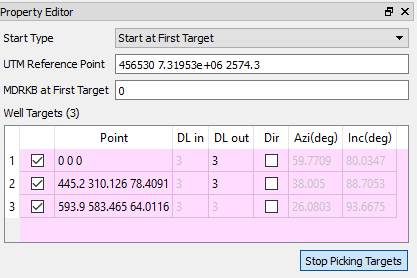
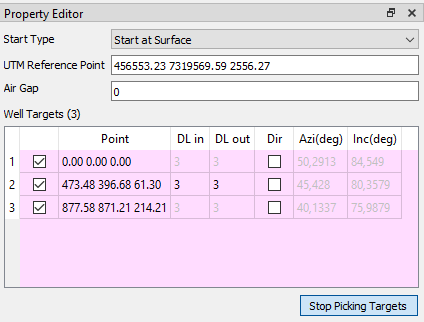
Improved well targets, c.f. issue #5530

Changed region(s): [[0.0, 0.0, 1.0, 1.0], [0.0, 0.5468, 0.0312, 0.6043], [0.0, 0.7194, 0.0312, 0.7482]]

diff --git a/content/Wells-and-Completions/CreateNewWellPaths.md b/content/Wells-and-Completions/CreateNewWellPaths.md
@@ -19,17 +19,18 @@ To create a well path:
 
 ![]({{< relref "" >}}images/3d-main-window/WellTargetsPropertyEditor.png)
 
-Well targets property editor fields
+Well targets property editor fields:
 
-- **UTM Reference Point** - Reference point. Defaults to the first target point clicked
-- **MDRKB at First Target** - Define MD (referenced to Rotary Kelly Bushing) at first target point. Applies to well path export only.
+- **Start Type** - Specify well to start either at surface or at first target point.
+- **UTM Reference Point** - Reference point. Defaults to the first target point clicked.
+- **Air Gap** - Specify Air Gap, i.e. distance from Rotary Kelling Bushing to sea surface. Applies to well path export only.
 - **Well Targets:** List of targets. Will have pink background when in picking state.
-  - **Point** - Target position relative to reference point
-  - **DL in** - Dog leg inwards. Unit: Degrees/30m
-  - **DL out** - Dog leg outwards. Unit: Degrees/30m
-  - **Dir** - Check box for overriding well path auto calculated directions
-  - **Azi (deg)** - Azimuth. Y axis is 0 degrees
-  - **Inc (deg)** - Inclination. Z axis is 0 degrees
+  - **Point** - Target position relative to reference point.
+  - **DL in** - Dog leg inwards [degrees/30m].
+  - **DL out** - Dog leg outwards [degrees/30m].
+  - **Dir** - Check box for overriding well path auto calculated directions.
+  - **Azi (deg)** - Azimuth. Y axis is 0 degrees.
+  - **Inc (deg)** - Inclination. Z axis is 0 degrees.
 
 A self created well path may be edited by either editing coordinates in the property editor or clicking and dragging targets in the 3D view. 
 
